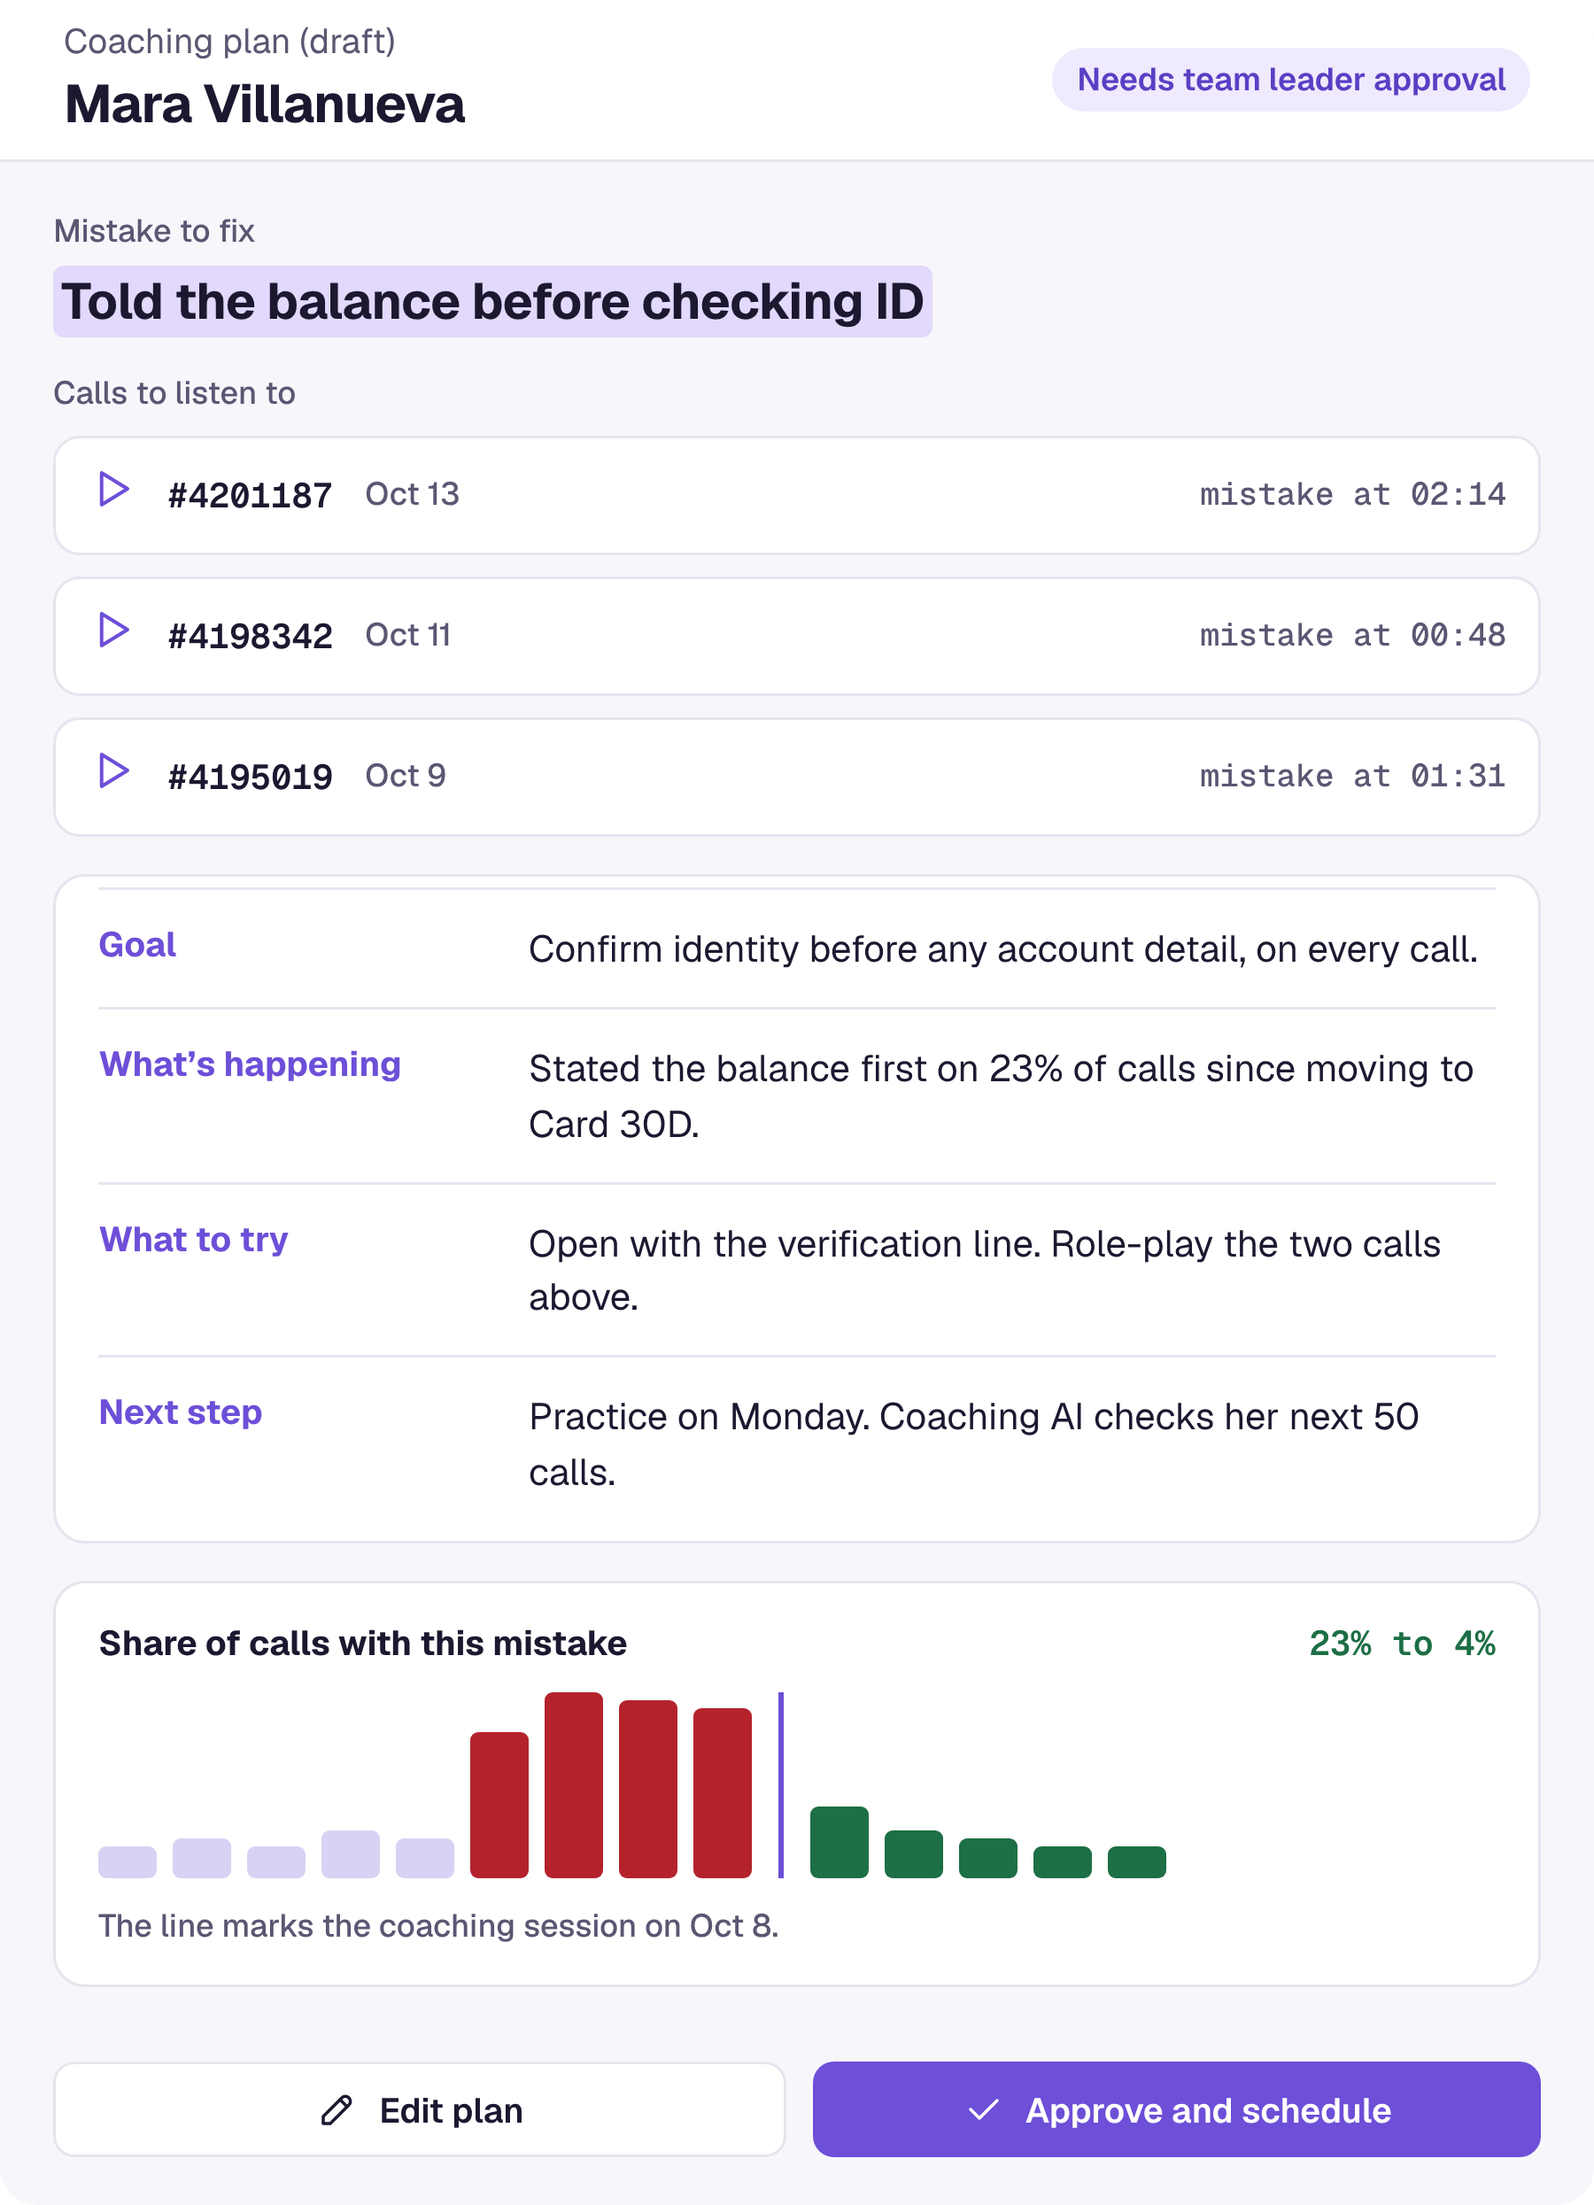
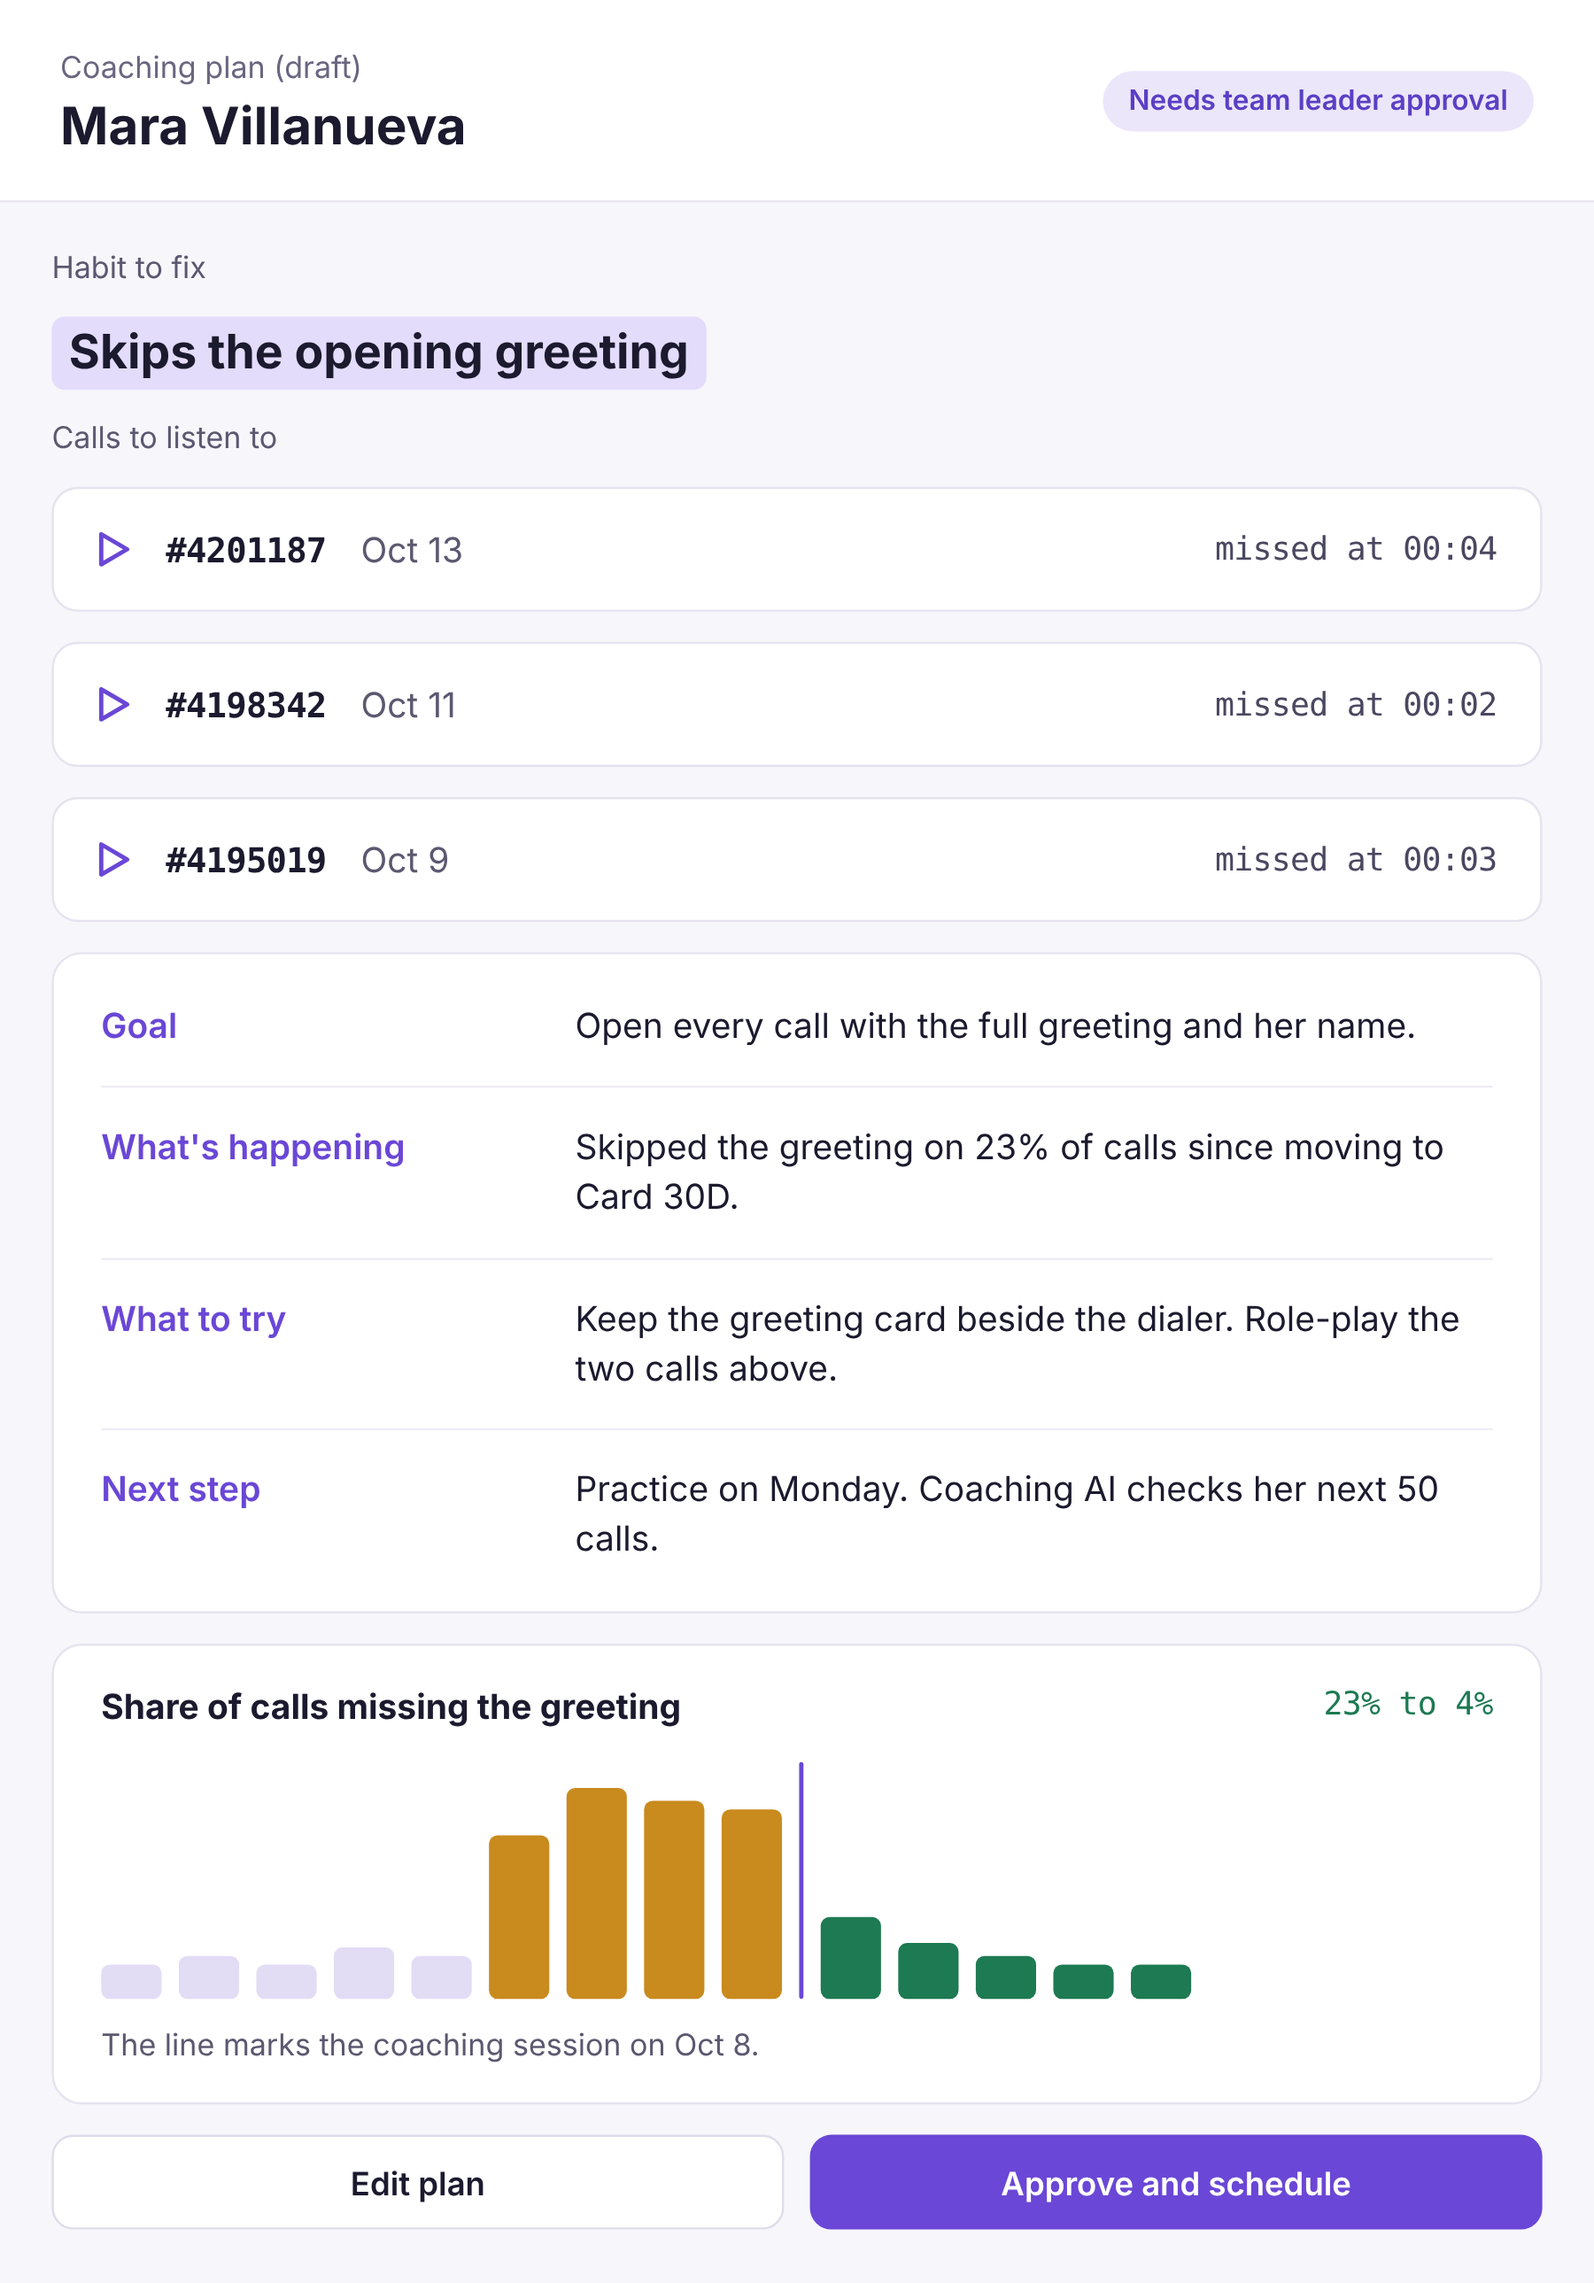
QA fixes: low and medium examples only, nav routing, contact links, no brackets
Claude-Session: https://claude.ai/code/session_01J6cCjCkA75yTWsrEvriAhH

diff --git a/index.html b/index.html
@@ -90,6 +90,7 @@ section[style*="padding-bottom: 140px"]{padding-bottom:88px!important}
 }
 @media (max-width:440px){nav.nav > div > img,nav.nav > div > span[style*="width: 1px"]{display:none!important}}
 @media (max-width:700px){.hwrap > .glass{box-sizing:border-box;width:100%!important}}
+html{scroll-behavior:smooth}section[id]{scroll-margin-top:24px}
 </style>
 <style>html{scroll-behavior:smooth}img{max-width:100%}@media (max-width:700px){[style*="grid-column: span 2"]{grid-column:auto!important}}</style>
 </head>
@@ -114,7 +115,7 @@ section[style*="padding-bottom: 140px"]{padding-bottom:88px!important}
 <a href="#how" class="navl" style="color: #4f4058; text-decoration: none">How it works</a>
 <a href="#results" class="navl" style="color: #4f4058; text-decoration: none">Results</a>
 <a href="https://qwago.texxen.com" class="navl" style="color: #4f4058; text-decoration: none">QA AI</a>
-<a href="#book" class="btn" style="background: #1f1426; color: #ffffff">Book a call</a>
+<a href="mailto:info@spmadridlaw.com?subject=Book%20a%20call%3A%20Coaching%20AI" class="btn" style="background: #1f1426; color: #ffffff">Book a call</a>
 </div>
 </nav>
 
@@ -125,7 +126,7 @@ section[style*="padding-bottom: 140px"]{padding-bottom:88px!important}
 <h1 style="margin: 0; font-family: 'Inter Tight', sans-serif; font-weight: 800; font-size: clamp(56px, 9vw, 128px); line-height: 0.9; letter-spacing: -0.05em">Coaching AI</h1>
 <p style="margin: 0; font-size: clamp(20px, 2vw, 26px); line-height: 1.35; font-weight: 500; max-width: 640px">QA AI finds the mistakes.<br><span style="color: #7e22b8">Coaching AI helps team leaders fix them.</span></p>
 <div style="display: flex; flex-wrap: wrap; justify-content: center; gap: 12px">
-<a href="#book" class="btn" style="background: #9b34d6; color: #ffffff; box-shadow: 0 10px 30px rgba(155,52,214,0.35)">Book a call</a>
+<a href="mailto:info@spmadridlaw.com?subject=Book%20a%20call%3A%20Coaching%20AI" class="btn" style="background: #9b34d6; color: #ffffff; box-shadow: 0 10px 30px rgba(155,52,214,0.35)">Book a call</a>
 <a href="#video" class="btn glass" style="color: #1f1426"><svg aria-hidden="true" width="14" height="14" viewBox="0 0 14 14"><path d="M3 1.5v11l9-5.5z" fill="#1f1426"></path></svg>Watch the video</a>
 </div>
 </section>
@@ -135,8 +136,8 @@ section[style*="padding-bottom: 140px"]{padding-bottom:88px!important}
 <img src="assets/coaching-screen.png" alt="Coaching AI screen" style="width: 100%; height: auto; display: block; border-radius: 24px">
 </div>
 <div class="glass bob hchip" style="position: absolute; left: 4%; top: 22%; width: 260px; border-radius: 22px; padding: 18px; display: flex; flex-direction: column; gap: 12px; text-align: left">
-<div style="display: flex; align-items: center; gap: 12px"><span style="width: 40px; height: 40px; border-radius: 50%; background: #e7d3f5; color: #7e22b8; font-weight: 700; display: flex; align-items: center; justify-content: center">[AG]</span><span style="display: flex; flex-direction: column"><strong>[Agent name]</strong><span style="font-size: 13px; color: #4f4058">Needs coaching</span></span></div>
-<span style="padding: 6px 12px; border-radius: 999px; background: rgba(155,52,214,0.12); color: #7e22b8; font-size: 13px; font-weight: 600; align-self: flex-start">[Skill to fix]</span>
+<div style="display: flex; align-items: center; gap: 12px"><span style="width: 40px; height: 40px; border-radius: 50%; background: #e7d3f5; color: #7e22b8; font-weight: 700; display: flex; align-items: center; justify-content: center">MV</span><span style="display: flex; flex-direction: column"><strong>Mara Villanueva</strong><span style="font-size: 13px; color: #4f4058">Needs coaching</span></span></div>
+<span style="padding: 6px 12px; border-radius: 999px; background: rgba(155,52,214,0.12); color: #7e22b8; font-size: 13px; font-weight: 600; align-self: flex-start">Opening greeting</span>
 </div>
 <div class="glass bob2 hchip" style="position: absolute; right: 4%; bottom: 24%; width: 240px; border-radius: 22px; padding: 18px 20px; display: flex; flex-direction: column; gap: 6px; text-align: left">
 <span style="font-size: 13px; color: #4f4058">Mistake rate</span>
@@ -233,23 +234,23 @@ section[style*="padding-bottom: 140px"]{padding-bottom:88px!important}
 </div>
 <div class="glass" style="border-radius: 32px; padding: 28px; display: flex; flex-direction: column; gap: 20px; background: rgba(255,255,255,0.7)">
 <div style="display: flex; align-items: center; justify-content: space-between; gap: 12px">
-<div style="display: flex; align-items: center; gap: 12px"><span style="width: 44px; height: 44px; border-radius: 50%; background: #e7d3f5; color: #7e22b8; font-weight: 700; display: flex; align-items: center; justify-content: center">[AG]</span><span style="display: flex; flex-direction: column"><strong style="font-size: 18px">[Agent name]</strong><span style="font-size: 14px; color: #4f4058">Coaching plan</span></span></div>
-<span style="padding: 6px 12px; border-radius: 999px; background: rgba(155,52,214,0.12); color: #7e22b8; font-size: 13px; font-weight: 600">[Skill to fix]</span>
+<div style="display: flex; align-items: center; gap: 12px"><span style="width: 44px; height: 44px; border-radius: 50%; background: #e7d3f5; color: #7e22b8; font-weight: 700; display: flex; align-items: center; justify-content: center">MV</span><span style="display: flex; flex-direction: column"><strong style="font-size: 18px">Mara Villanueva</strong><span style="font-size: 14px; color: #4f4058">Coaching plan</span></span></div>
+<span style="padding: 6px 12px; border-radius: 999px; background: rgba(155,52,214,0.12); color: #7e22b8; font-size: 13px; font-weight: 600">Opening greeting</span>
 </div>
 <div style="display: flex; flex-direction: column; gap: 10px">
 <div style="display: flex; align-items: center; gap: 14px; padding: 12px 14px; border-radius: 16px; background: rgba(31,20,38,0.04)">
 <button type="button" aria-label="Play call" style="width: 40px; height: 40px; border-radius: 50%; border: none; background: #9b34d6; display: flex; align-items: center; justify-content: center; cursor: pointer; flex-shrink: 0"><svg aria-hidden="true" width="14" height="14" viewBox="0 0 14 14"><path d="M4 1.5v11l9-5.5z" fill="#ffffff"></path></svg></button>
-<span style="flex-grow: 1; display: flex; flex-direction: column"><strong style="font-size: 15px">[Call 1]</strong><span style="font-size: 13px; color: #4f4058">[Reason it was picked]</span></span>
+<span style="flex-grow: 1; display: flex; flex-direction: column"><strong style="font-size: 15px">#4201187 · Oct 13</strong><span style="font-size: 13px; color: #4f4058">Greeting skipped at 00:04</span></span>
 <div aria-hidden="true" style="display: flex; align-items: center; gap: 3px; height: 24px"><span class="wv" style="height: 8px; background: #b98ad8; animation-delay: -0.30s"></span><span class="wv" style="height: 18px; background: #b98ad8; animation-delay: -0.43s"></span><span class="wv" style="height: 12px; background: #b98ad8; animation-delay: -0.56s"></span><span class="wv" style="height: 22px; background: #9b34d6; animation-delay: -0.69s"></span><span class="wv" style="height: 10px; background: #b98ad8; animation-delay: -0.82s"></span><span class="wv" style="height: 16px; background: #b98ad8; animation-delay: -0.95s"></span><span class="wv" style="height: 20px; background: #b98ad8; animation-delay: -1.08s"></span></div>
 </div>
 <div style="display: flex; align-items: center; gap: 14px; padding: 12px 14px; border-radius: 16px; background: rgba(31,20,38,0.04)">
 <button type="button" aria-label="Play call" style="width: 40px; height: 40px; border-radius: 50%; border: none; background: #9b34d6; display: flex; align-items: center; justify-content: center; cursor: pointer; flex-shrink: 0"><svg aria-hidden="true" width="14" height="14" viewBox="0 0 14 14"><path d="M4 1.5v11l9-5.5z" fill="#ffffff"></path></svg></button>
-<span style="flex-grow: 1; display: flex; flex-direction: column"><strong style="font-size: 15px">[Call 2]</strong><span style="font-size: 13px; color: #4f4058">[Reason it was picked]</span></span>
+<span style="flex-grow: 1; display: flex; flex-direction: column"><strong style="font-size: 15px">#4198342 · Oct 11</strong><span style="font-size: 13px; color: #4f4058">Greeting skipped at 00:02</span></span>
 <div aria-hidden="true" style="display: flex; align-items: center; gap: 3px; height: 24px"><span class="wv" style="height: 8px; background: #b98ad8; animation-delay: -0.60s"></span><span class="wv" style="height: 18px; background: #b98ad8; animation-delay: -0.73s"></span><span class="wv" style="height: 12px; background: #b98ad8; animation-delay: -0.86s"></span><span class="wv" style="height: 22px; background: #9b34d6; animation-delay: -0.99s"></span><span class="wv" style="height: 10px; background: #b98ad8; animation-delay: -1.12s"></span><span class="wv" style="height: 16px; background: #b98ad8; animation-delay: -1.25s"></span><span class="wv" style="height: 20px; background: #b98ad8; animation-delay: -1.38s"></span></div>
 </div>
 <div style="display: flex; align-items: center; gap: 14px; padding: 12px 14px; border-radius: 16px; background: rgba(31,20,38,0.04)">
 <button type="button" aria-label="Play call" style="width: 40px; height: 40px; border-radius: 50%; border: none; background: #9b34d6; display: flex; align-items: center; justify-content: center; cursor: pointer; flex-shrink: 0"><svg aria-hidden="true" width="14" height="14" viewBox="0 0 14 14"><path d="M4 1.5v11l9-5.5z" fill="#ffffff"></path></svg></button>
-<span style="flex-grow: 1; display: flex; flex-direction: column"><strong style="font-size: 15px">[Call 3]</strong><span style="font-size: 13px; color: #4f4058">[Reason it was picked]</span></span>
+<span style="flex-grow: 1; display: flex; flex-direction: column"><strong style="font-size: 15px">#4195019 · Oct 9</strong><span style="font-size: 13px; color: #4f4058">Greeting skipped at 00:03</span></span>
 <div aria-hidden="true" style="display: flex; align-items: center; gap: 3px; height: 24px"><span class="wv" style="height: 8px; background: #b98ad8; animation-delay: -0.90s"></span><span class="wv" style="height: 18px; background: #b98ad8; animation-delay: -1.03s"></span><span class="wv" style="height: 12px; background: #b98ad8; animation-delay: -1.16s"></span><span class="wv" style="height: 22px; background: #9b34d6; animation-delay: -1.29s"></span><span class="wv" style="height: 10px; background: #b98ad8; animation-delay: -1.42s"></span><span class="wv" style="height: 16px; background: #b98ad8; animation-delay: -1.55s"></span><span class="wv" style="height: 20px; background: #b98ad8; animation-delay: -1.68s"></span></div>
 </div>
 </div>
@@ -296,8 +297,8 @@ section[style*="padding-bottom: 140px"]{padding-bottom:88px!important}
 <div class="orb" aria-hidden="true" style="position: absolute; right: -10%; top: -40%; width: 60%; height: 160%; border-radius: 50%; background: #9b34d6; opacity: 0.55; filter: blur(110px)"></div>
 <h2 style="position: relative; margin: 0; font-family: 'Inter Tight', sans-serif; font-weight: 800; font-size: clamp(36px, 5vw, 64px); line-height: 1; letter-spacing: -0.04em; color: #ffffff">See Coaching AI with your team.</h2>
 <div style="position: relative; border-radius: 28px; padding: 28px; background: rgba(255,255,255,0.12); border: 1px solid rgba(255,255,255,0.3); backdrop-filter: blur(20px); -webkit-backdrop-filter: blur(20px); display: flex; flex-direction: column; gap: 18px">
-<span style="color: rgba(255,255,255,0.9); font-size: 18px">Book a call with the S.P. Madrid team.</span>
-<a href="#book" class="btn" style="background: #ffffff; color: #1f1426; min-height: 56px; font-size: 17px">Book a call</a>
+<span style="color: rgba(255,255,255,0.9); font-size: 18px">Talk to the S.P. Madrid team.</span>
+<a href="mailto:info@spmadridlaw.com?subject=Book%20a%20call%3A%20Coaching%20AI" class="btn" style="background: #ffffff; color: #1f1426; min-height: 56px; font-size: 17px">info@spmadridlaw.com</a><a href="tel:+639209185272" class="btn" style="background: rgba(255,255,255,0.14); color: #ffffff; border: 1px solid rgba(255,255,255,0.35); min-height: 56px; font-size: 17px">+63 920 918 5272</a>
 </div>
 </div>
 </section>

diff --git a/assets/site.js b/assets/site.js
@@ -13,6 +13,15 @@
     function step(t) { if (!t0) t0 = t; var k = Math.min(1, (t - t0) / 1400); k = 1 - Math.pow(1 - k, 3); el.textContent = Math.round(end * k) + suf; if (k < 1) requestAnimationFrame(step); }
     requestAnimationFrame(step);
   }
+  document.querySelectorAll('a[href^="#"]').forEach(function (a) {
+    a.addEventListener('click', function (e) {
+      var t = document.getElementById(a.getAttribute('href').slice(1));
+      if (!t) return;
+      e.preventDefault();
+      t.scrollIntoView({ behavior: reduce ? 'auto' : 'smooth', block: 'start' });
+      history.replaceState(null, '', a.getAttribute('href'));
+    });
+  });
   if (reduce || !('IntersectionObserver' in window)) { els.forEach(function (e) { e.classList.add('in'); }); return; }
   var io = new IntersectionObserver(function (entries) {
     entries.forEach(function (en) {
